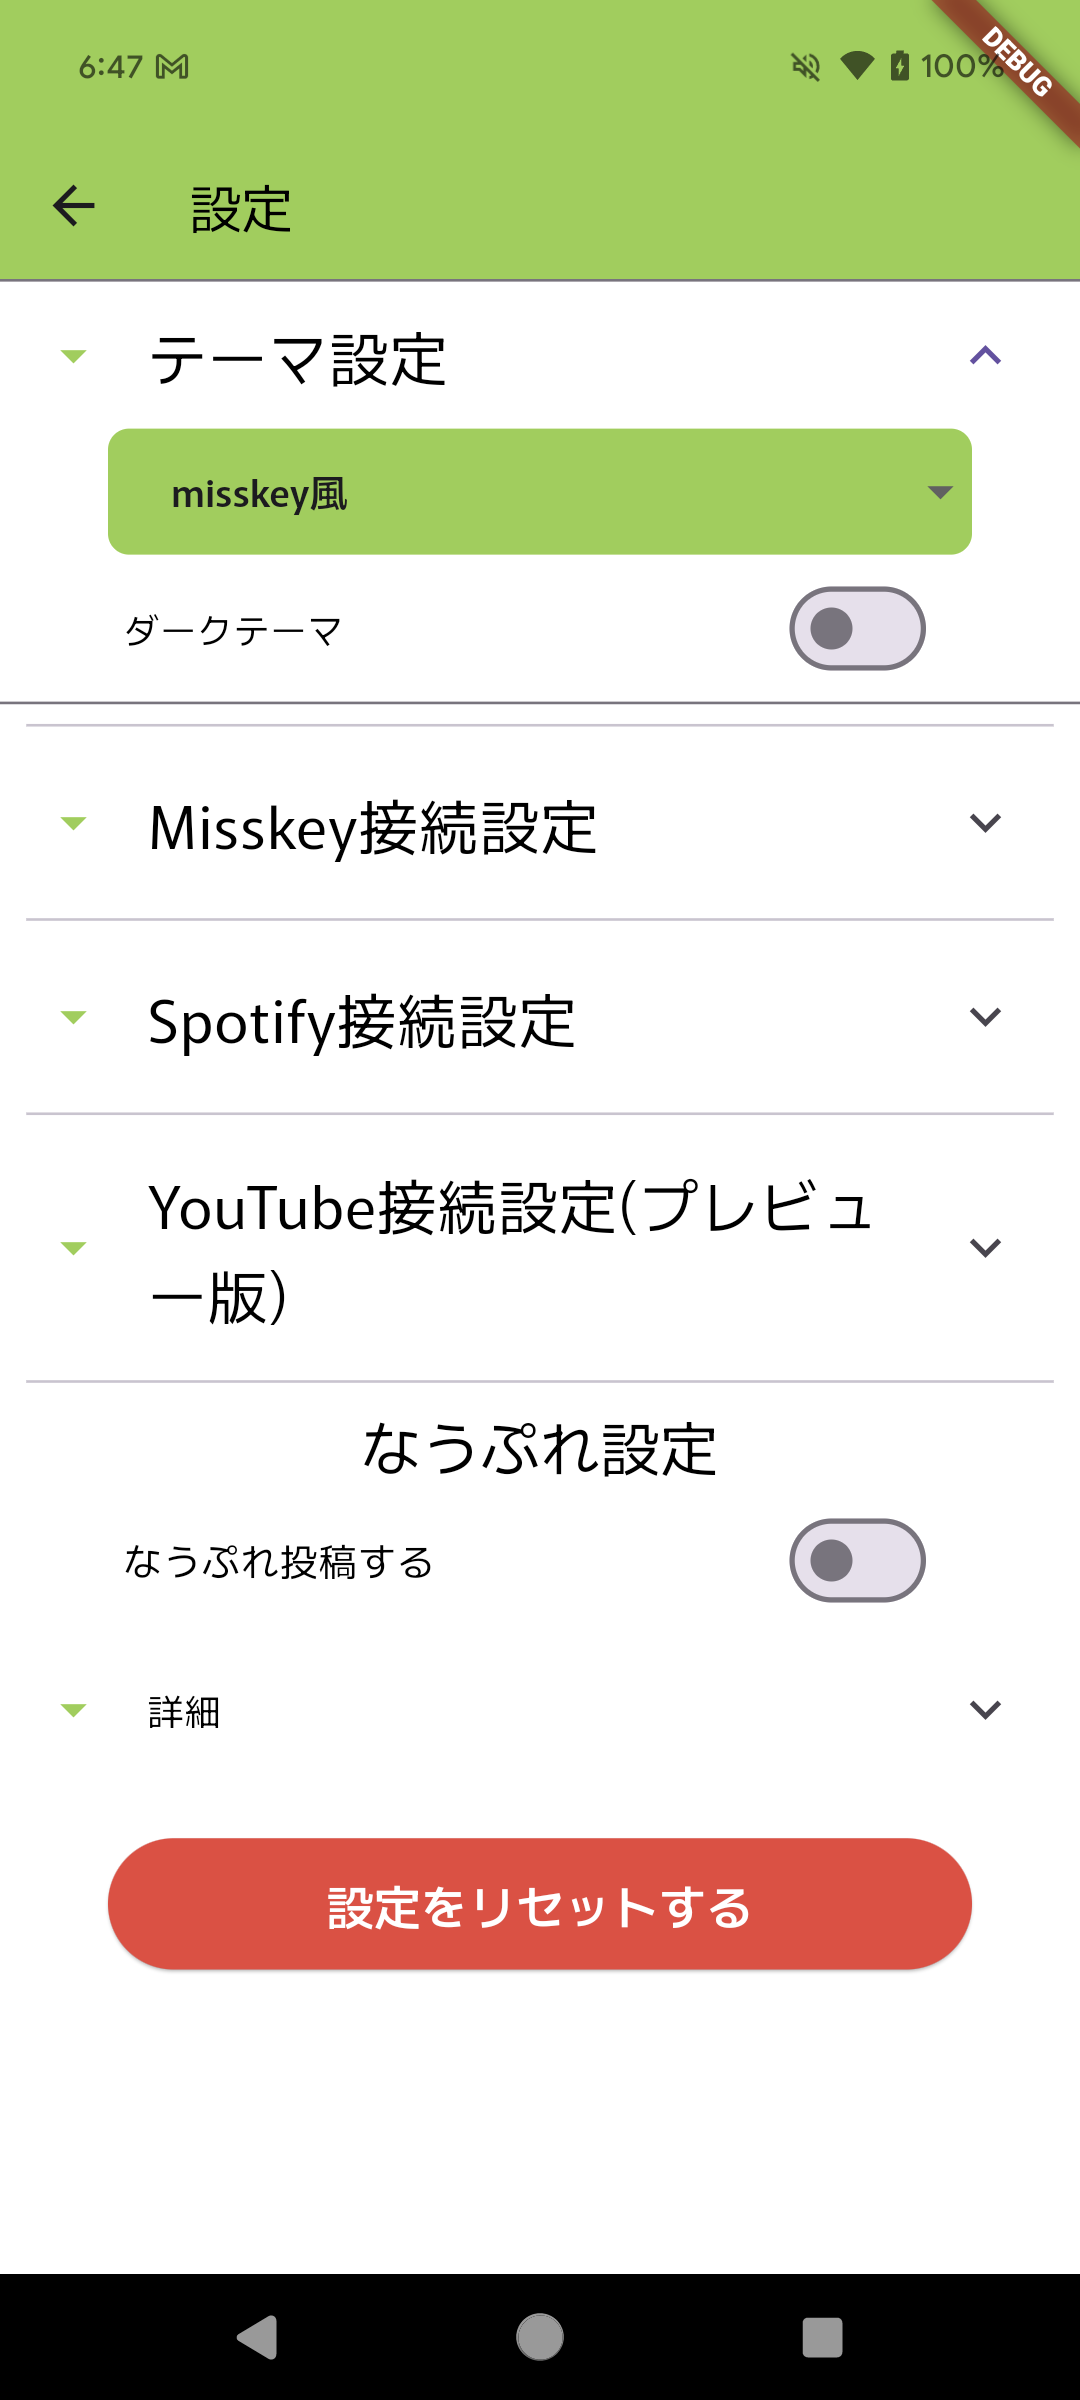
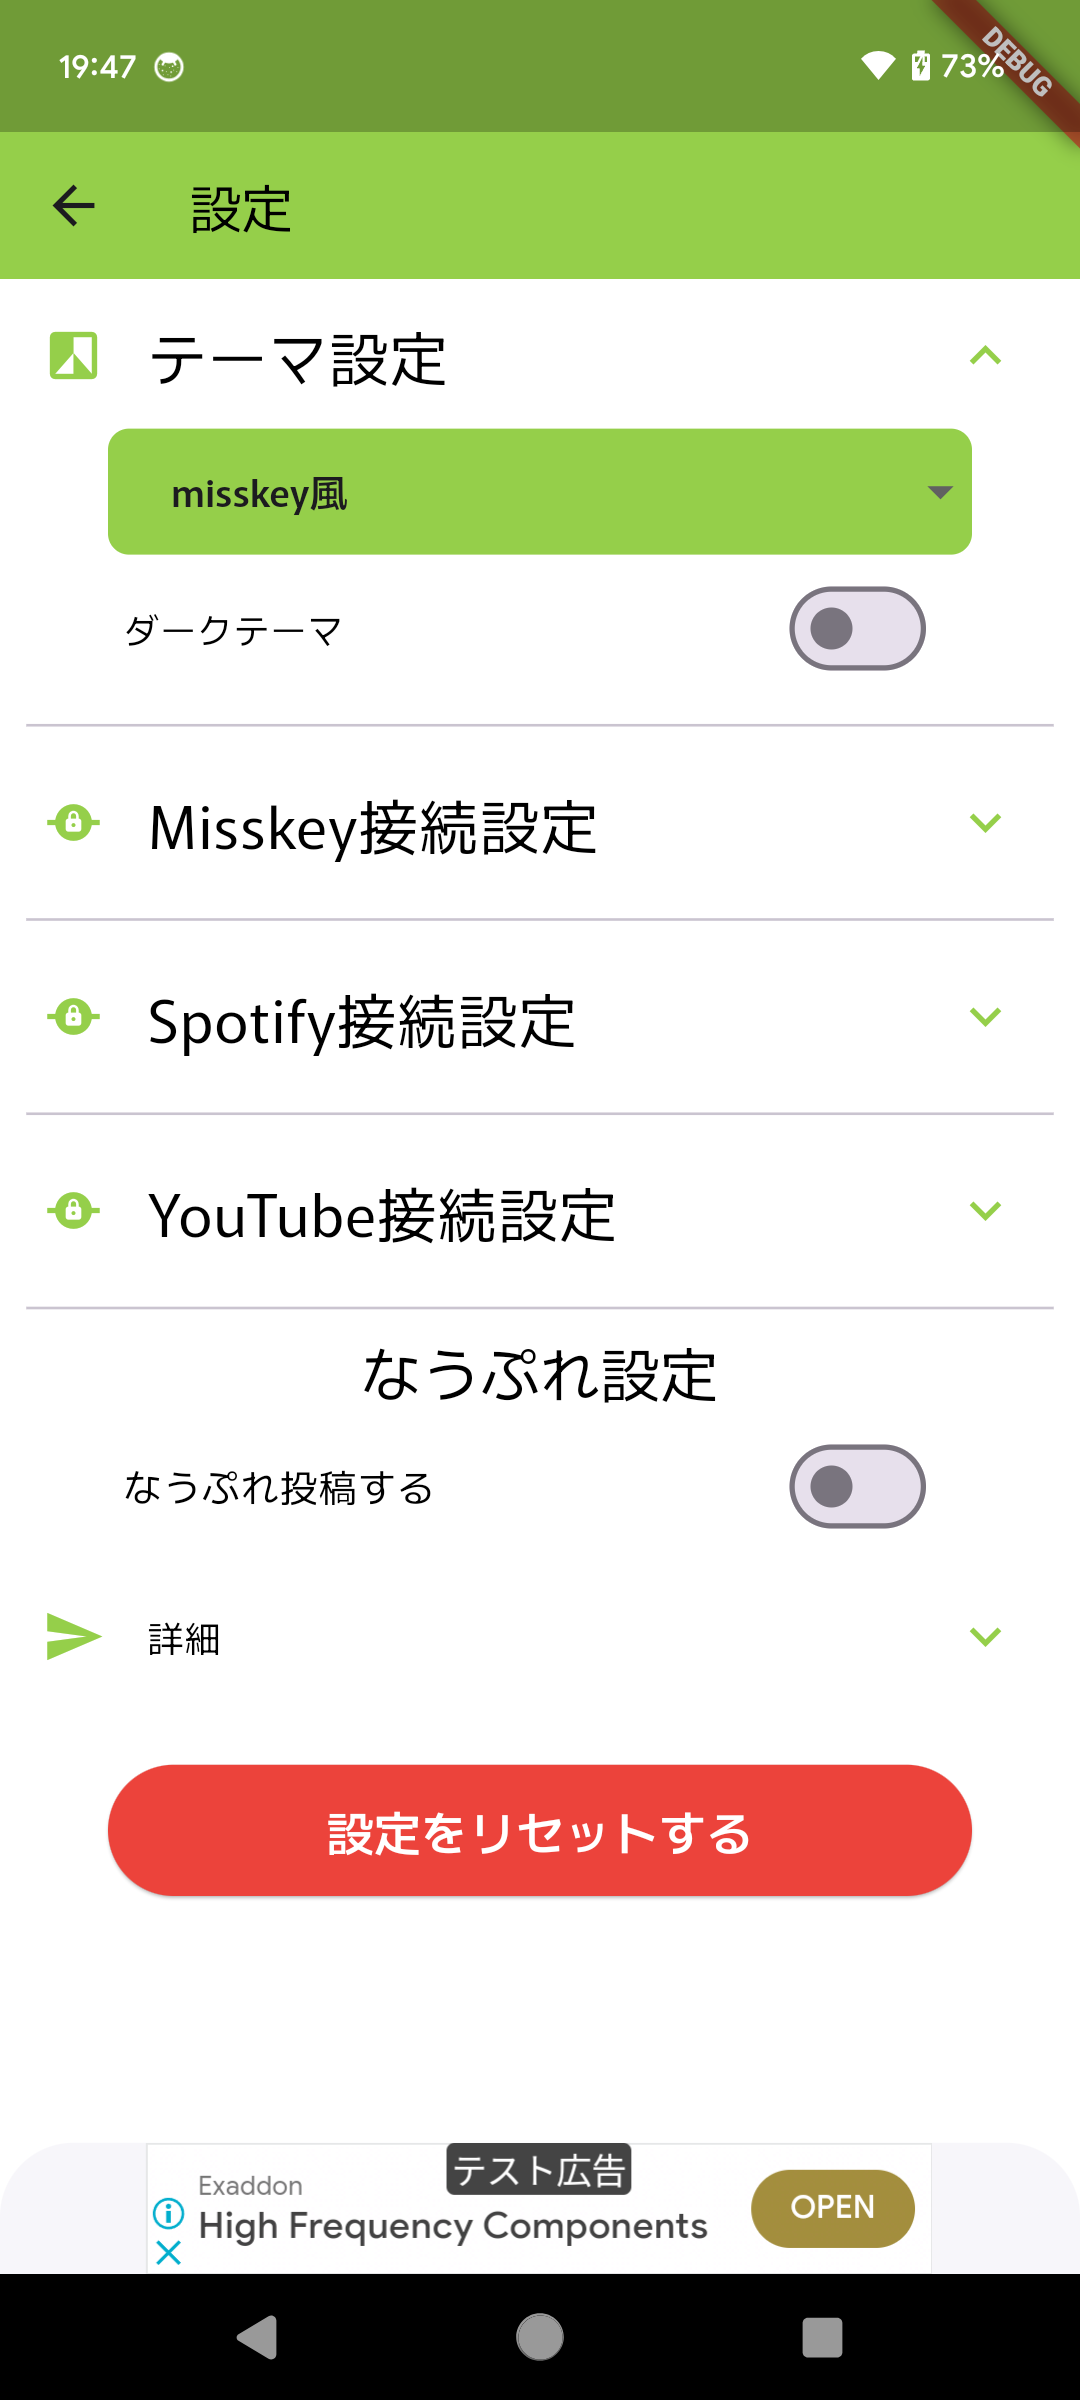
手順の記載漏れを追記しました。

diff --git a/docs/guide-theme.html b/docs/guide-theme.html
@@ -17,6 +17,8 @@
     <link href="https://fonts.googleapis.com/css2?family=Kiwi+Maru&display=swap" rel="stylesheet">
     <script type="text/javascript" id="MathJax-script" async
         src="https://cdn.jsdelivr.net/npm/mathjax@3/es5/tex-chtml.js"></script>
+    <!-- Google font Icon -->
+    <link href="https://fonts.googleapis.com/icon?family=Material+Icons" rel="stylesheet" />
     <!-- google-adsense -->
     <meta name="google-adsense-account" content="ca-pub-2961043635944259">
     <script async src="https://pagead2.googlesyndication.com/pagead/js/adsbygoogle.js?client=ca-pub-2961043635944259"
@@ -46,8 +48,9 @@
     <div class="contentsbody">
         <h1>テーマの設定</h1>
 
-        <span class="hover-text" data-image="images/display-setting.png"></span>の<span
-            class="button-like-text">テーマ設定</span>を押下して、テーマ設定を展開してください。
+        <span class="hover-text" data-image="images/display-setting.png"></span>の<span class="button-like-text"><span
+                class="material-icons"
+                style="font-size: 1.2em; vertical-align: middle;">filter_b_and_w</span>テーマ設定</span>を押下して、テーマ設定を展開してください。
 
         <div class="screenshots">
             <a href="./images/theme1.png" data-lightbox="misskey-group"><img src="./images/theme1.png" alt=""
@@ -67,60 +70,82 @@
             <div class="screenshots">
                 <a href="./images/theme3.png" data-lightbox="misskey-group"><img src="./images/theme3.png" alt=""
                         width="35%"></a>
+                <a href="./images/theme6.png" data-lightbox="misskey-group"><img src="./images/theme6.png" alt=""
+                        width="35%"></a>
+                <p>テーマ：Baconを選んだ場合 <code id="version"></code></p>
             </div>
             <table class="table-design">
                 <tbody>
                     <tr>
-                        <td class="title-top-left">misskey風</td>
-                        <td class="detail-top-right" style="color: #95cf4a; font-weight: bold;">#95CF4A</td>
+                        <td class="title-top-left">テーマカラー名</td>
+                        <td class="title" style="font-weight: bold;">カラーコード</td>
+                        <td class="title-top-right" style="font-weight: bold;">RGB</td>
+                    </tr>
+                    <tr>
+                        <td class="title">misskey風</td>
+                        <td style="text-align: center; color: #95cf4a; font-weight: bold;">#95CF4A</td>
+                        <td style="text-align: center; color: #95cf4a; font-weight: bold;">(149,207, 74)</td>
                     </tr>
                     <tr>
                         <td class="title">Bacon</td>
-                        <td style="color: #fb6e96;font-weight: bold;">#FB6E96</td>
+                        <td style="text-align: center; color: #fb6e96;font-weight: bold;">#FB6E96</td>
+                        <td style="text-align: center; color: #fb6e96;font-weight: bold;">(251,110,150)</td>
                     </tr>
                     <tr>
                         <td class="title">透き通るような1</td>
-                        <td style="color: #128afa; font-weight: bold;">#128AFA</td>
+                        <td style="text-align: center; color: #128afa; font-weight: bold;">#128AFA</td>
+                        <td style="text-align: center; color: #128afa; font-weight: bold;">( 18,138,250)</td>
                     </tr>
                     <tr>
                         <td class="title">透き通るような2</td>
-                        <td style="color: #00d7fb; font-weight: bold;">#00D7FB</td>
+                        <td style="text-align: center; color: #00d7fb; font-weight: bold;">#00D7FB</td>
+                        <td style="text-align: center; color: #00d7fb; font-weight: bold;">( 0,215,251)</td>
                     </tr>
                     <tr>
                         <td class="title">ダージリン1stフラッシュ</td>
-                        <td style="color: #fcd86c; font-weight: bold;">#FCD86C</td>
+                        <td style="text-align: center; color: #fcd86c; font-weight: bold;">#FCD86C</td>
+                        <td style="text-align: center; color: #fcd86c; font-weight: bold;">(252,216,108)</td>
                     </tr>
                     <tr>
                         <td class="title">ダージリン2ndフラッシュ</td>
-                        <td style="color: #bf7331; font-weight: bold;">#BF7331</td>
+                        <td style="text-align: center; color: #bf7331; font-weight: bold;">#BF7331</td>
+                        <td style="text-align: center; color: #bf7331; font-weight: bold;">(191,115, 49)</td>
                     </tr>
                     <tr>
                         <td class="title">ウヴァ</td>
-                        <td style="color: #6b2d14; font-weight: bold;">#6B2D14</td>
+                        <td style="text-align: center; color: #6b2d14; font-weight: bold;">#6B2D14</td>
+                        <td style="text-align: center; color: #6b2d14; font-weight: bold;">(107, 45, 20)</td>
                     </tr>
                     <tr>
                         <td class="title">キームン</td>
-                        <td style="color: #913f32; font-weight: bold;">#913F32</td>
+                        <td style="text-align: center; color: #913f32; font-weight: bold;">#913F32</td>
+                        <td style="text-align: center; color: #913f32; font-weight: bold;">(145, 63, 50)</td>
                     </tr>
                     <tr>
                         <td class="title">ニルギリ</td>
-                        <td style="color: #e7a44c; font-weight: bold;">#E7A44C</td>
+                        <td style="text-align: center; color: #e7a44c; font-weight: bold;">#E7A44C</td>
+                        <td style="text-align: center; color: #e7a44c; font-weight: bold;">(231,164, 76)</td>
                     </tr>
                     <tr>
                         <td class="title">セイロン</td>
-                        <td style="color: #9d4421; font-weight: bold;">#9D4421</td>
+                        <td style="text-align: center; color: #9d4421; font-weight: bold;">#9D4421</td>
+                        <td style="text-align: center; color: #9d4421; font-weight: bold;">(157, 68, 33)</td>
                     </tr>
                     <tr>
                         <td class="title">手鍋式ミルクティー</td>
-                        <td style="color: #ffe6c9; font-weight: bold;">#FFE6C9</td>
+                        <td style="text-align: center; color: #ffe6c9; font-weight: bold;">#FFE6C9</td>
+                        <td style="text-align: center; color: #ffe6c9; font-weight: bold;">(255,230,201)</td>
                     </tr>
                     <tr>
                         <td class="title">歯磨き粉</td>
-                        <td style="color: #a3f3d4; font-weight: bold;">#A3F3D4</td>
+                        <td style="text-align: center; color: #a3f3d4; font-weight: bold;">#A3F3D4</td>
+                        <td style="text-align: center; color: #a3f3d4; font-weight: bold;">(163,243,212)</td>
                     </tr>
                     <tr>
                         <td class="title-bottom-left">フューチャー</td>
-                        <td class="detail-bottom-right" style="color: #b6b7b7; font-weight: bold;">#B6B7B7</td>
+                        <td style="text-align: center; color: #b6b7b7; font-weight: bold;">#B6B7B7</td>
+                        <td class="detail-bottom-right" style="text-align: center; color: #b6b7b7; font-weight: bold;">
+                            (182,183,183)</td>
                     </tr>
                 </tbody>
             </table>
@@ -179,6 +204,7 @@
                 <button id="scrollToTopBtn" title="いちばん上に戻る">▲</button>
 
                 <img id="hover-image" src="" alt="画像" style="display:none;">
+
                 <div style="text-align: center;">
                     <img src="./images/Amazon-logo-RGB.png" alt="固定画像" width="15%" style="cursor: pointer;" onclick="
                 redirectToRandomUrl()">

diff --git a/docs/youtube-setting.html b/docs/youtube-setting.html
@@ -15,6 +15,8 @@
     <link rel="preconnect" href="https://fonts.googleapis.com">
     <link rel="preconnect" href="https://fonts.gstatic.com" crossorigin>
     <link href="https://fonts.googleapis.com/css2?family=Kiwi+Maru&display=swap" rel="stylesheet">
+    <!-- Google font Icon -->
+    <link href="https://fonts.googleapis.com/icon?family=Material+Icons" rel="stylesheet" />
     <!-- google-adsense -->
     <meta name="google-adsense-account" content="ca-pub-2961043635944259">
     <script async src="https://pagead2.googlesyndication.com/pagead/js/adsbygoogle.js?client=ca-pub-2961043635944259"
@@ -174,7 +176,22 @@
             <li>アプリの設定を開き、「Scrobbleの遅延」の「分」を最小の30秒に設定したら、Pano Scrobblerの設定は完了です。</li>
         </ol>
 
+        <h2>BaconJam側の設定</h2>
+        <ol>
+            <li><span class="hover-text" data-image="images/display-setting.png"></span>の<span
+                    class="button-like-text"><span class="material-icons" style="font-size: 1.2em; vertical-align: middle;">private_connectivity</span>YouTube接続設定</span>を押下して、設定項目を展開してください。</li>
+            <div class="screenshots">
+                <a href="./images/lastfm11.png" data-lightbox="misskey-group"><img src="./images/lastfm11.png" alt=""
+                        width="35%"></a>
+                <a href="./images/lastfm12.png" data-lightbox="misskey-group"><img src="./images/lastfm12.png" alt=""
+                        width="35%"></a>
+            </div>
+            <li>last.fmのユーザー名と、先ほど控えた<code>API key</code>を入力してください。</li>
+        </ol>
+
         <button id="scrollToTopBtn" title="いちばん上に戻る">▲</button>
+
+        <img id="hover-image" src="" alt="画像" style="display:none;">
 
         <div style="text-align: center;">
             <img src="./images/Amazon-logo-RGB.png" alt="固定画像" width="15%" style="cursor: pointer;" onclick="
@@ -184,12 +201,14 @@
     <footer>
         <div id="footer"></div>
     </footer>
+    <script src="./js/generate-text-by-image.js"></script>
     <script src="./js/generate-toc.js"></script>
     <script src="./js/generate-url.js"></script>
     <script src="./js/imgAutoResize.js"></script>
     <script src="./js/load-footer.js"></script>
     <script src="./js/load-last-update-date.js"></script>
     <script src="./js/load-version.js"></script>
+    <script src="./js/show-image.js"></script>
     <script src="./js/to-top.js"></script>
 </body>
 
